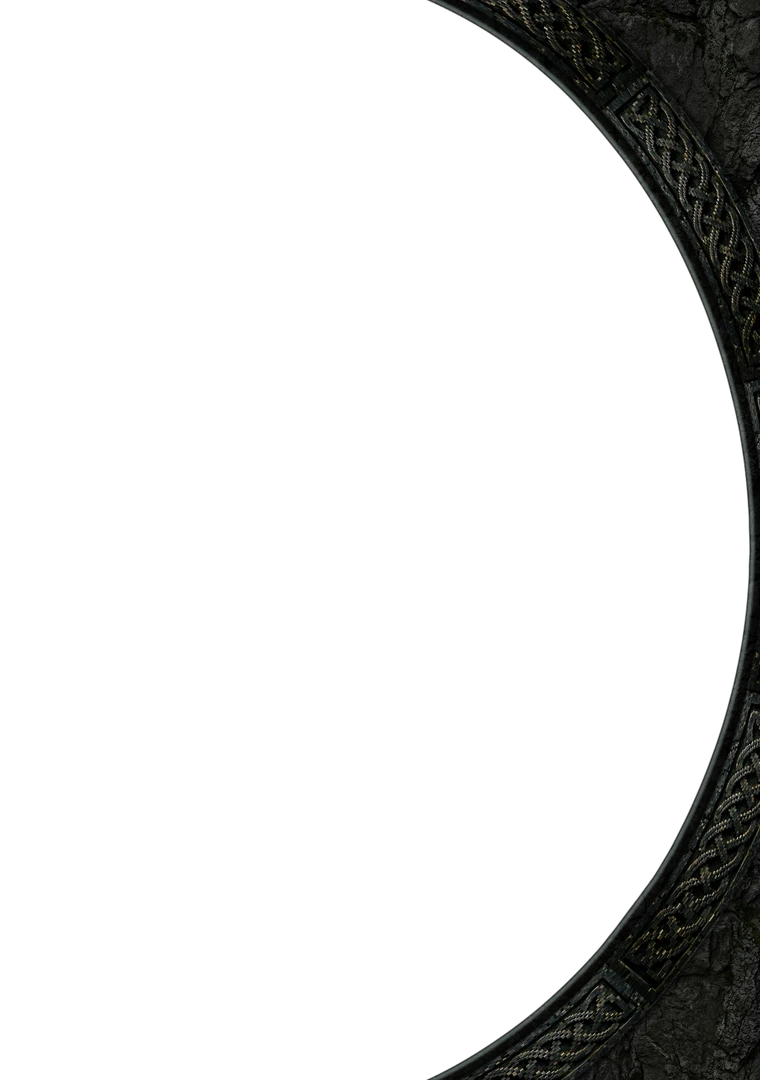
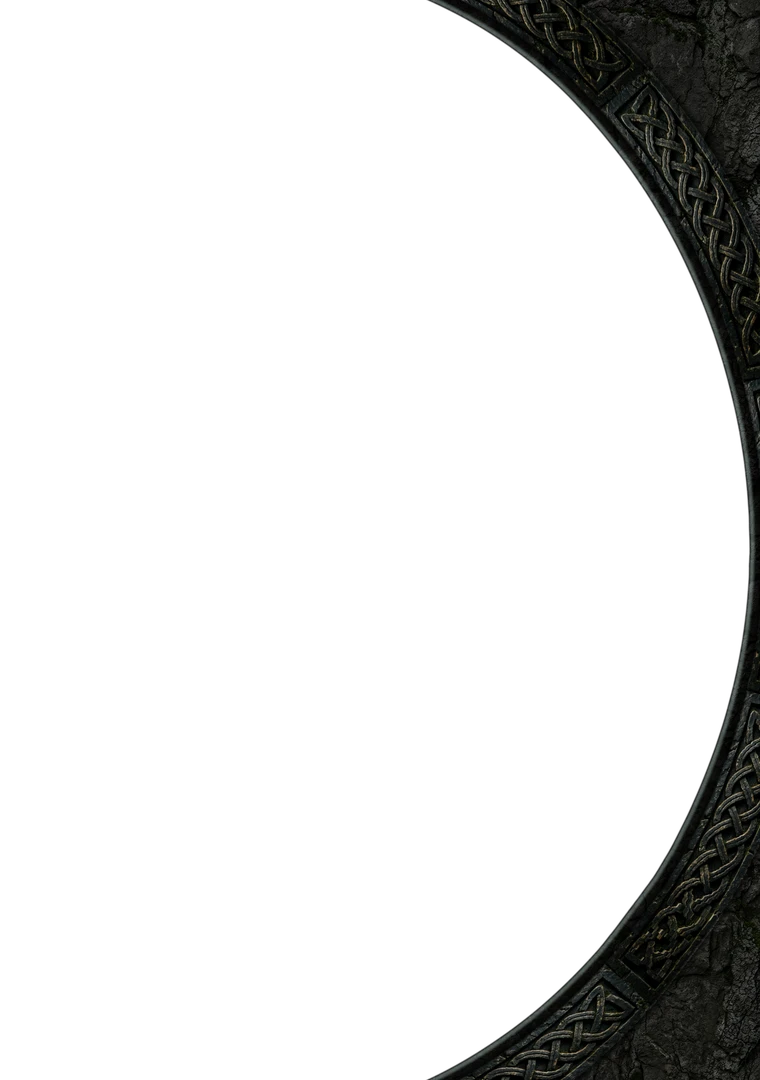
Steinrand: Flechtband stufenlos entlang der Goldlinie (Projektion auf die Kurvenstrecke statt nächster Punkt) und weich abgetastet – keine Treppen mehr

diff --git a/scripts/steinrand.py b/scripts/steinrand.py
@@ -86,7 +86,14 @@ for seite in ('links', 'rechts'):
     for i in range(0, px.size, 20000):
         dx = px[i:i + 20000, None] - kurve[None, :, 0]; dy = py[i:i + 20000, None] - kurve[None, :, 1]
         dd = dx * dx + dy * dy; j = dd.argmin(axis=1)
-        d[i:i + 20000] = np.sqrt(dd[np.arange(j.size), j]); s[i:i + 20000] = laenge[j]
+        # stufenlos: auf die beiden angrenzenden Strecken projizieren (Rückmeldung 05.11.2026: Treppen im Flechtband)
+        P = np.c_[px[i:i + 20000], py[i:i + 20000]]; best_d = np.full(j.size, np.inf); best_s = np.zeros(j.size)
+        for o in (-1, 0):
+            a0 = np.clip(j + o, 0, len(kurve) - 2); A = kurve[a0]; Bv = kurve[a0 + 1] - A
+            t = np.clip(((P - A) * Bv).sum(1) / (Bv * Bv).sum(1), 0, 1); Q = A + Bv * t[:, None]
+            dist = np.hypot(*(P - Q).T); sv = laenge[a0] + t * (laenge[a0 + 1] - laenge[a0])
+            besser = dist < best_d; best_d[besser] = dist[besser]; best_s[besser] = sv[besser]
+        d[i:i + 20000] = best_d; s[i:i + 20000] = best_s
     d = d.reshape(H * SS, BR * SS); s = s.reshape(H * SS, BR * SS)
     # nur außen (zur Bildschirmkante hin) zählt
     x_kurve = np.interp(yy, kurve[:, 1], kurve[:, 0])
@@ -109,10 +116,12 @@ for seite in ('links', 'rechts'):
         innen = r0 + 14
         spalte_f = (d - innen) / LEISTE_B
         in_leiste = (spalte_f >= 0) & (spalte_f < 1)
-        zeile = np.mod(s / (LEISTE_B / lw), lh).astype(int)
-        spalte = np.clip((spalte_f * lw).astype(int), 0, lw - 1)
-        if rechts: spalte = lw - 1 - spalte
-        farbe = l[zeile, spalte] * 0.95
+        # weich abtasten (bilinear) statt nächstes Pixel
+        zf = np.mod(s / (LEISTE_B / lw), lh); sf = np.clip(spalte_f * lw, 0, lw - 1.001)
+        if rechts: sf = lw - 1.001 - sf
+        z0 = np.floor(zf).astype(int); s0 = np.floor(sf).astype(int); wz = (zf - z0)[..., None]; ws = (sf - s0)[..., None]
+        z1 = (z0 + 1) % lh; s1 = np.minimum(s0 + 1, lw - 1)
+        farbe = ((l[z0, s0] * (1 - ws) + l[z0, s1] * ws) * (1 - wz) + (l[z1, s0] * (1 - ws) + l[z1, s1] * ws) * wz) * 0.95
         kante = glatt(0, 0.04, spalte_f) * (1 - glatt(0.96, 1, spalte_f))
         fuge = 1 - 0.6 * (glatt(-0.12, 0, spalte_f) * (1 - glatt(0, 0.02, spalte_f)) + glatt(0.98, 1, spalte_f) * (1 - glatt(1.0, 1.12, spalte_f)))
         stein = np.where(in_leiste[..., None], stein * (1 - kante[..., None]) + farbe * kante[..., None], stein * fuge[..., None])
